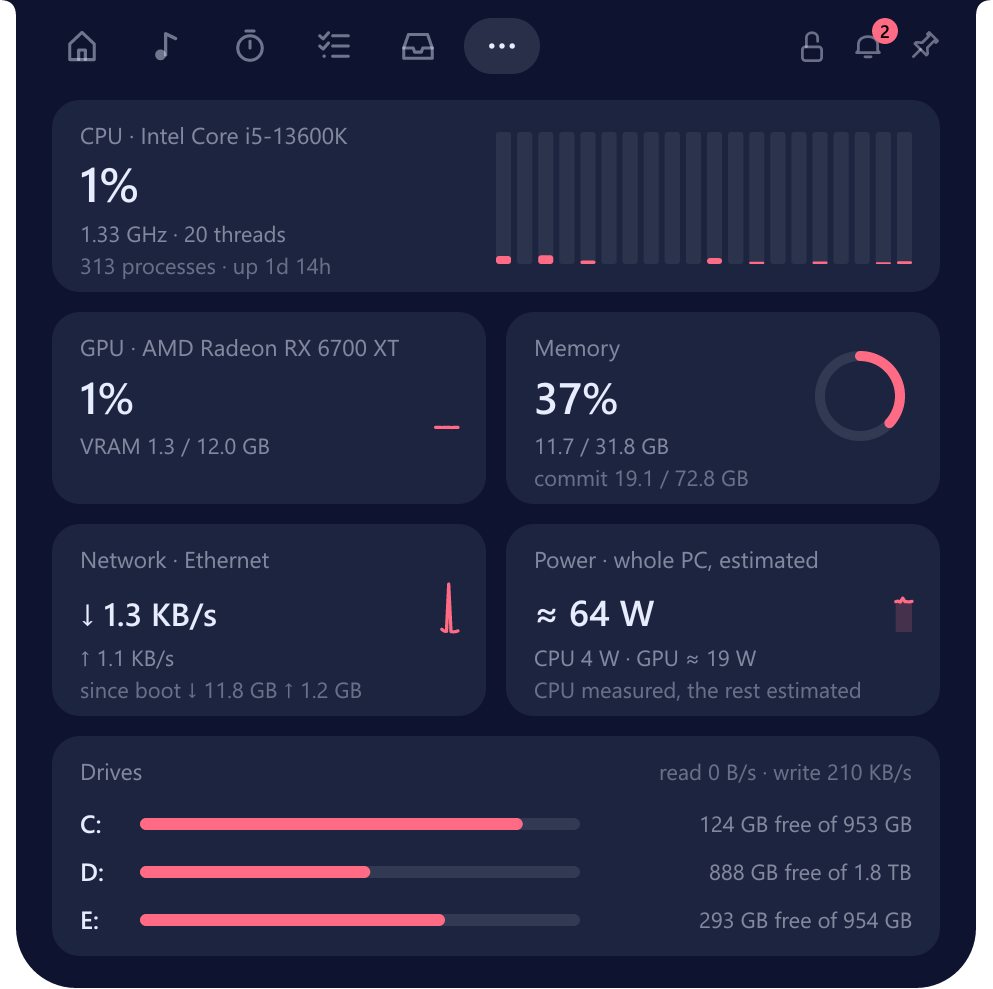
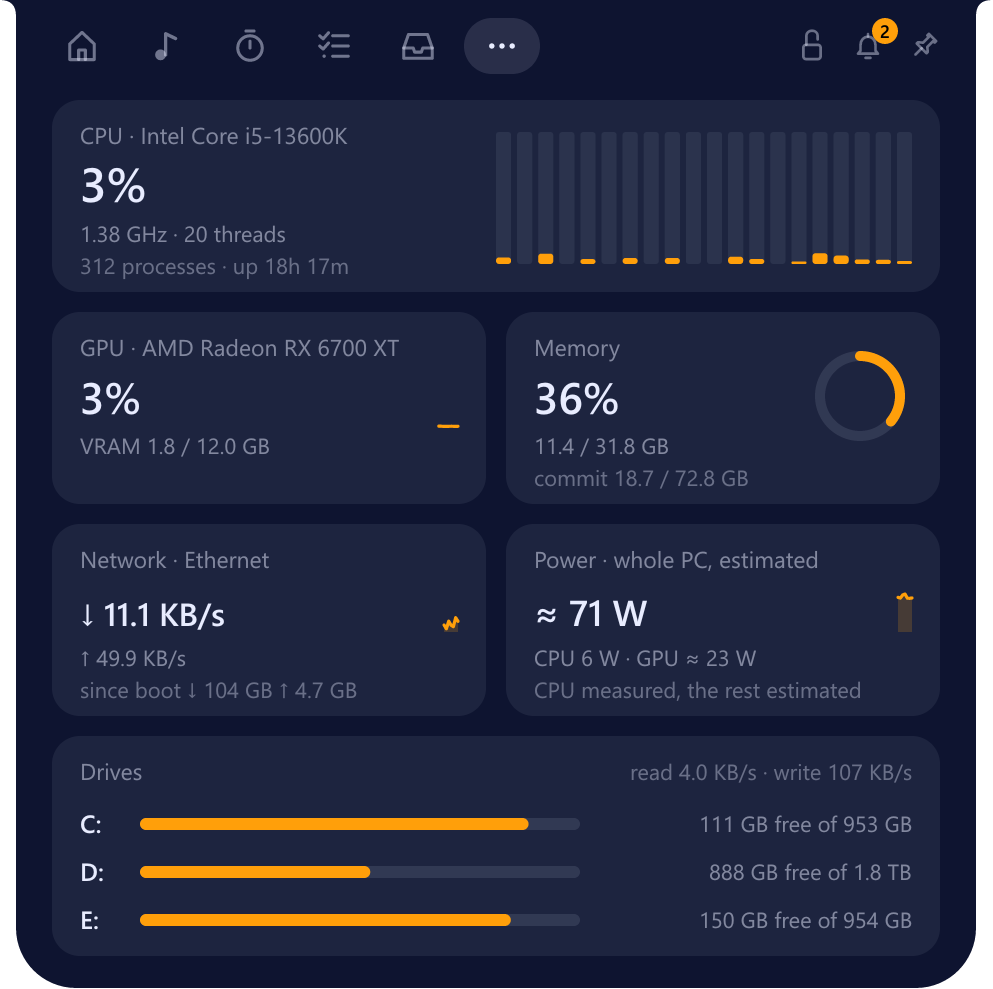
Landing page: the colour swatches repaint the theme previews

diff --git a/docs/index.html b/docs/index.html
@@ -607,14 +607,14 @@ footer .brand img { width: 22px; height: 22px; }
         <p>Cosmo, Smoke, Midnight, Light and Retro are only starting points: change the background, text and accent with a colour picker, pick from six fonts, add scanlines, and make the island Small, Medium or Large.</p>
       </div>
       <div class="themes">
-        <figure class="reveal" style="--d:0"><div class="stage cool"><img src="img/theme-midnight-system.png" width="496" height="494" alt="Midnight theme" loading="lazy"></div><figcaption>Midnight</figcaption></figure>
-        <figure class="reveal" style="--d:120"><div class="stage warm"><img src="img/theme-light-music.png" width="617" height="293" alt="Light theme" loading="lazy"></div><figcaption>Light</figcaption></figure>
-        <figure class="reveal" style="--d:240"><div class="stage game"><img src="img/theme-retro-home.png" width="497" height="321" alt="Retro theme with a pixel font" loading="lazy"></div><figcaption>Retro</figcaption></figure>
+        <figure class="reveal" style="--d:0"><div class="stage cool"><img src="img/theme-midnight-system.png?v=2" data-accent-mask="img/theme-midnight-system-accent.png?v=2" width="496" height="494" alt="Midnight theme" loading="lazy"></div><figcaption>Midnight</figcaption></figure>
+        <figure class="reveal" style="--d:120"><div class="stage warm"><img src="img/theme-light-music.png?v=2" data-accent-mask="img/theme-light-music-accent.png?v=2" width="617" height="293" alt="Light theme" loading="lazy"></div><figcaption>Light</figcaption></figure>
+        <figure class="reveal" style="--d:240"><div class="stage game"><img src="img/theme-retro-home.png?v=2" data-accent-mask="img/theme-retro-home-accent.png?v=2" width="497" height="321" alt="Retro theme with a pixel font" loading="lazy"></div><figcaption>Retro</figcaption></figure>
       </div>
       <div class="swatches reveal" id="swatches" role="radiogroup" aria-label="Accent colour for this page">
         <button type="button" role="radio" aria-checked="true" aria-label="Orange" data-accent="#ff9f0a" style="--c:#ff9f0a"></button><button type="button" role="radio" aria-checked="false" aria-label="Blue" data-accent="#0a84ff" style="--c:#0a84ff"></button><button type="button" role="radio" aria-checked="false" aria-label="Green" data-accent="#30d158" style="--c:#30d158"></button><button type="button" role="radio" aria-checked="false" aria-label="Pink" data-accent="#ff375f" style="--c:#ff375f"></button><button type="button" role="radio" aria-checked="false" aria-label="Purple" data-accent="#bf5af2" style="--c:#bf5af2"></button><button type="button" role="radio" aria-checked="false" aria-label="Teal" data-accent="#40c8e0" style="--c:#40c8e0"></button><label role="radio" aria-checked="false" title="Any colour" style="--ring-c:var(--text); --c:conic-gradient(#ff5e5e,#ffd35e,#5eff8b,#5ecbff,#b35eff,#ff5e5e)"><input type="color" value="#ff9f0a" aria-label="Any colour"></label>
       </div>
-      <p class="swatch-note reveal">Pick an accent to try it on this page.</p>
+      <p class="swatch-note reveal">Pick an accent to try it on the island and this page.</p>
     </div>
   </section>
 
@@ -919,6 +919,49 @@ footer .brand img { width: 22px; height: 22px; }
       root.style.setProperty('--accent-ink', y < 0.2 ? '#ffffff' : '#1a0f00');
     }
     Array.prototype.forEach.call(swatches.children, function (s) { s.setAttribute('aria-checked', String(s === chosen)); });
+    recolour(c);
+  }
+
+  // Theme previews: each comes with a mask of where Cosmo drew its accent
+  // (from shots in black and in white), so a picked colour is painted in as
+  // Cosmo would draw it: pixel + (colour - orange) × mask.
+  var previews = Array.prototype.map.call(document.querySelectorAll('img[data-accent-mask]'), function (img) {
+    return { img: img, src: img.src, url: null, pixels: null };
+  });
+  function picture(src) {
+    return new Promise(function (done, fail) { var i = new Image(); i.onload = function () { done(i); }; i.onerror = fail; i.src = src; });
+  }
+  function pixelsOf(i) {
+    var cv = document.createElement('canvas'); cv.width = i.naturalWidth; cv.height = i.naturalHeight;
+    var g = cv.getContext('2d'); g.drawImage(i, 0, 0);
+    return g.getImageData(0, 0, cv.width, cv.height);
+  }
+  function recolour(c) {
+    var n = parseInt(c.slice(1), 16), d = [(n >> 16) - 0xff, ((n >> 8) & 255) - 0x9f, (n & 255) - 0x0a];
+    previews.forEach(function (p) {
+      p.want = c;
+      if (c.toLowerCase() === '#ff9f0a') { p.img.src = p.src; return; }
+      p.pixels = p.pixels || Promise.all([picture(p.src), picture(p.img.dataset.accentMask)]).then(function (r) {
+        return { base: pixelsOf(r[0]), mask: pixelsOf(r[1]).data };
+      });
+      p.pixels.then(function (px) {
+        // A preview and mask from different versions don't line up.
+        if (p.want !== c || px.mask.length !== px.base.data.length) return;
+        var out = new ImageData(new Uint8ClampedArray(px.base.data), px.base.width, px.base.height), o = out.data, m = px.mask;
+        for (var i = 0; i < o.length; i += 4) {
+          var a = m[i] / 255;
+          if (a) { o[i] += d[0] * a; o[i + 1] += d[1] * a; o[i + 2] += d[2] * a; }
+        }
+        var cv = document.createElement('canvas'); cv.width = out.width; cv.height = out.height;
+        cv.getContext('2d').putImageData(out, 0, 0);
+        cv.toBlob(function (blob) {
+          if (p.want !== c || !blob) return;
+          if (p.url) URL.revokeObjectURL(p.url);
+          p.url = URL.createObjectURL(blob);
+          p.img.src = p.url;
+        });
+      }).catch(function () { /* the plain preview stays */ });
+    });
   }
   swatches.addEventListener('click', function (e) {
     var b = e.target.closest('button');
